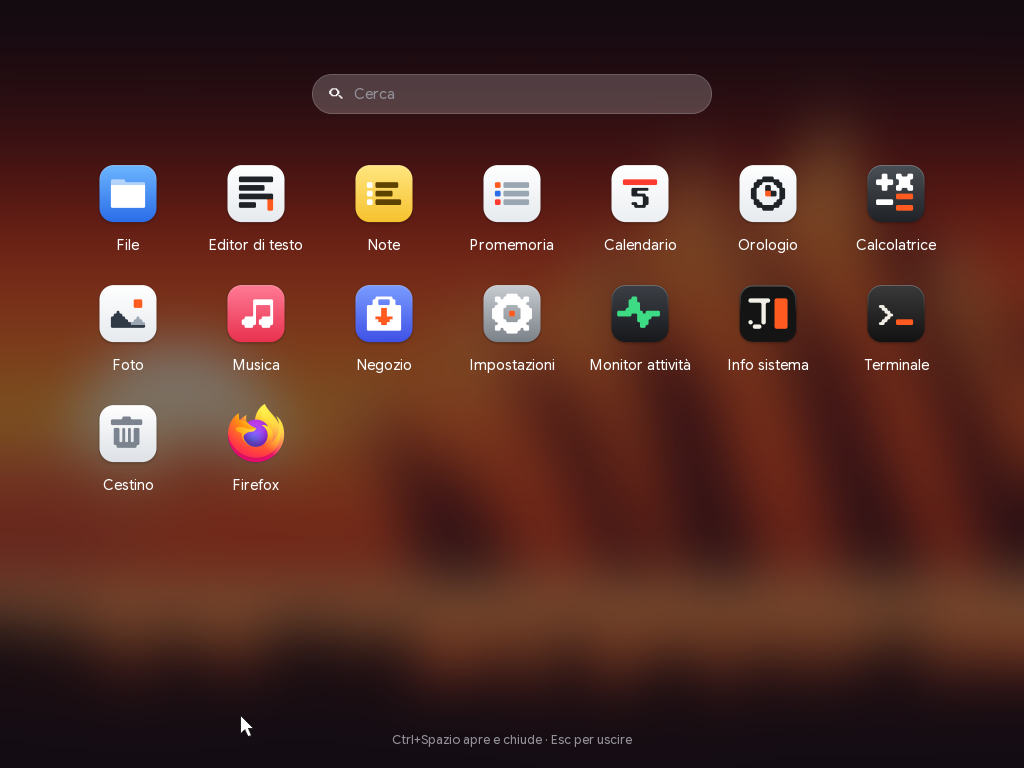
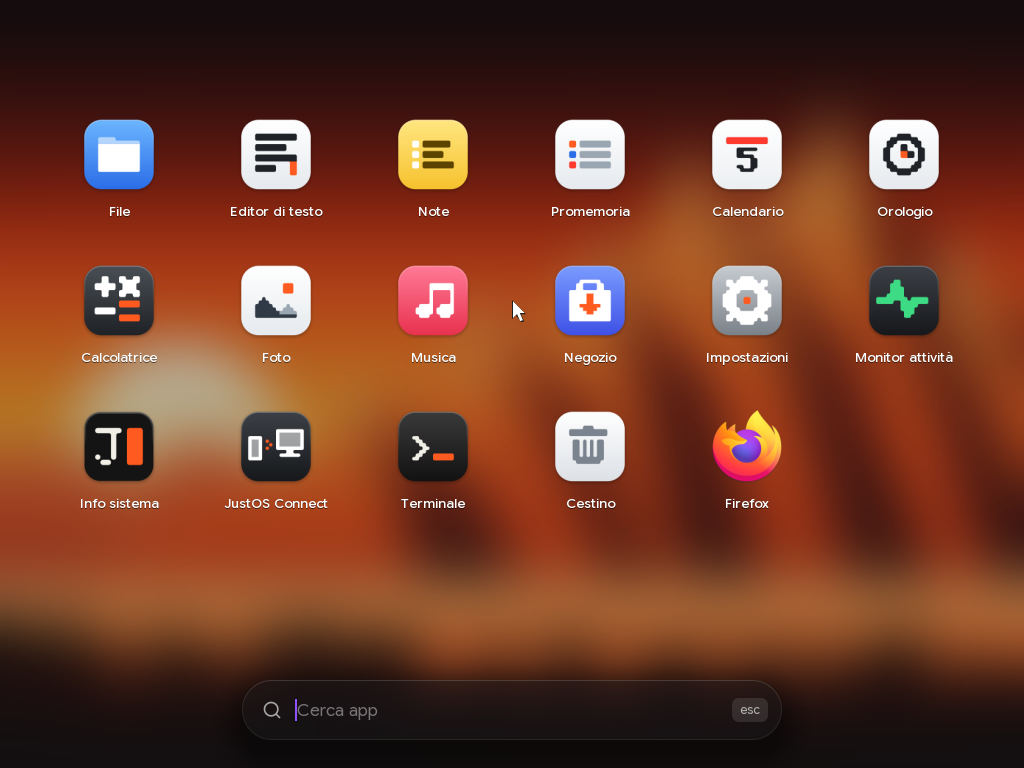
README: screenshots of the dynamic bar
The desktop, the launchpad, the control centre with its Wi-Fi and
Bluetooth pages, the PIN lock, a notification, a window in the light
theme and full screen with the bar peeking, from QEMU at 1024x768.

diff --git a/README.md b/README.md
@@ -75,14 +75,24 @@ onestà cosa funziona e cosa no.
 <td><img src="docs/screenshots/firefox.png" alt="Firefox ESR in una finestra di justOS" width="100%"><br><sub>Firefox ESR.</sub></td>
 </tr>
 <tr>
-<td><img src="docs/screenshots/lanciatore.png" alt="Applicazioni: tutte le app con la ricerca" width="100%"><br><sub>Applicazioni (Ctrl+Spazio).</sub></td>
+<td><img src="docs/screenshots/lanciatore.png" alt="Il launchpad: tutte le app e la barra diventata un campo di ricerca" width="100%"><br><sub>Il launchpad (Ctrl+Spazio).</sub></td>
 <td><img src="docs/screenshots/impostazioni-chiaro.png" alt="Impostazioni con il tema chiaro" width="100%"><br><sub>Impostazioni, tema chiaro.</sub></td>
-<td><img src="docs/screenshots/isola.png" alt="Il dock diventato un'isola mentre Firefox si avvia" width="100%"><br><sub>Il dock diventa un'isola mentre Firefox si avvia.</sub></td>
+<td><img src="docs/screenshots/centro-controllo.png" alt="La barra diventata il centro di controllo: Wi-Fi, Bluetooth, Non disturbare, volume, luminosità, musica, Blocca, Riavvia, Spegni" width="100%"><br><sub>La barra diventa il centro di controllo.</sub></td>
 </tr>
 <tr>
 <td><img src="docs/screenshots/permessi.png" alt="Popup che chiede se consentire a Firefox di usare il microfono" width="100%"><br><sub>Un permesso, chiesto come su un telefono.</sub></td>
 <td><img src="docs/screenshots/pacchetti.png" alt="Installazione di cowsay con 9 pacchetti dall'archivio di Debian" width="100%"><br><sub>Un .deb con le sue dipendenze da Debian.</sub></td>
 <td></td>
+</tr>
+<tr>
+<td><img src="docs/screenshots/blocco.png" alt="La schermata di blocco: l'ora grande e la barra con il tastierino del PIN" width="100%"><br><sub>Il blocco con il PIN.</sub></td>
+<td><img src="docs/screenshots/notifica.png" alt="La barra diventata una notifica del Calendario" width="100%"><br><sub>Una notifica, nella barra.</sub></td>
+<td><img src="docs/screenshots/wifi.png" alt="La pagina Wi-Fi del centro di controllo" width="100%"><br><sub>La pagina Wi-Fi.</sub></td>
+</tr>
+<tr>
+<td><img src="docs/screenshots/finestra-chiaro.png" alt="Una finestra di File con la cornice chiara, tema chiaro" width="100%"><br><sub>Una finestra, tema chiaro.</sub></td>
+<td><img src="docs/screenshots/schermo-intero.png" alt="Una finestra a schermo intero con la barra che risale dal bordo in basso" width="100%"><br><sub>Schermo intero: la barra risale dal bordo.</sub></td>
+<td><img src="docs/screenshots/bluetooth.png" alt="La pagina Bluetooth del centro di controllo" width="100%"><br><sub>La pagina Bluetooth.</sub></td>
 </tr>
 </table>
 
